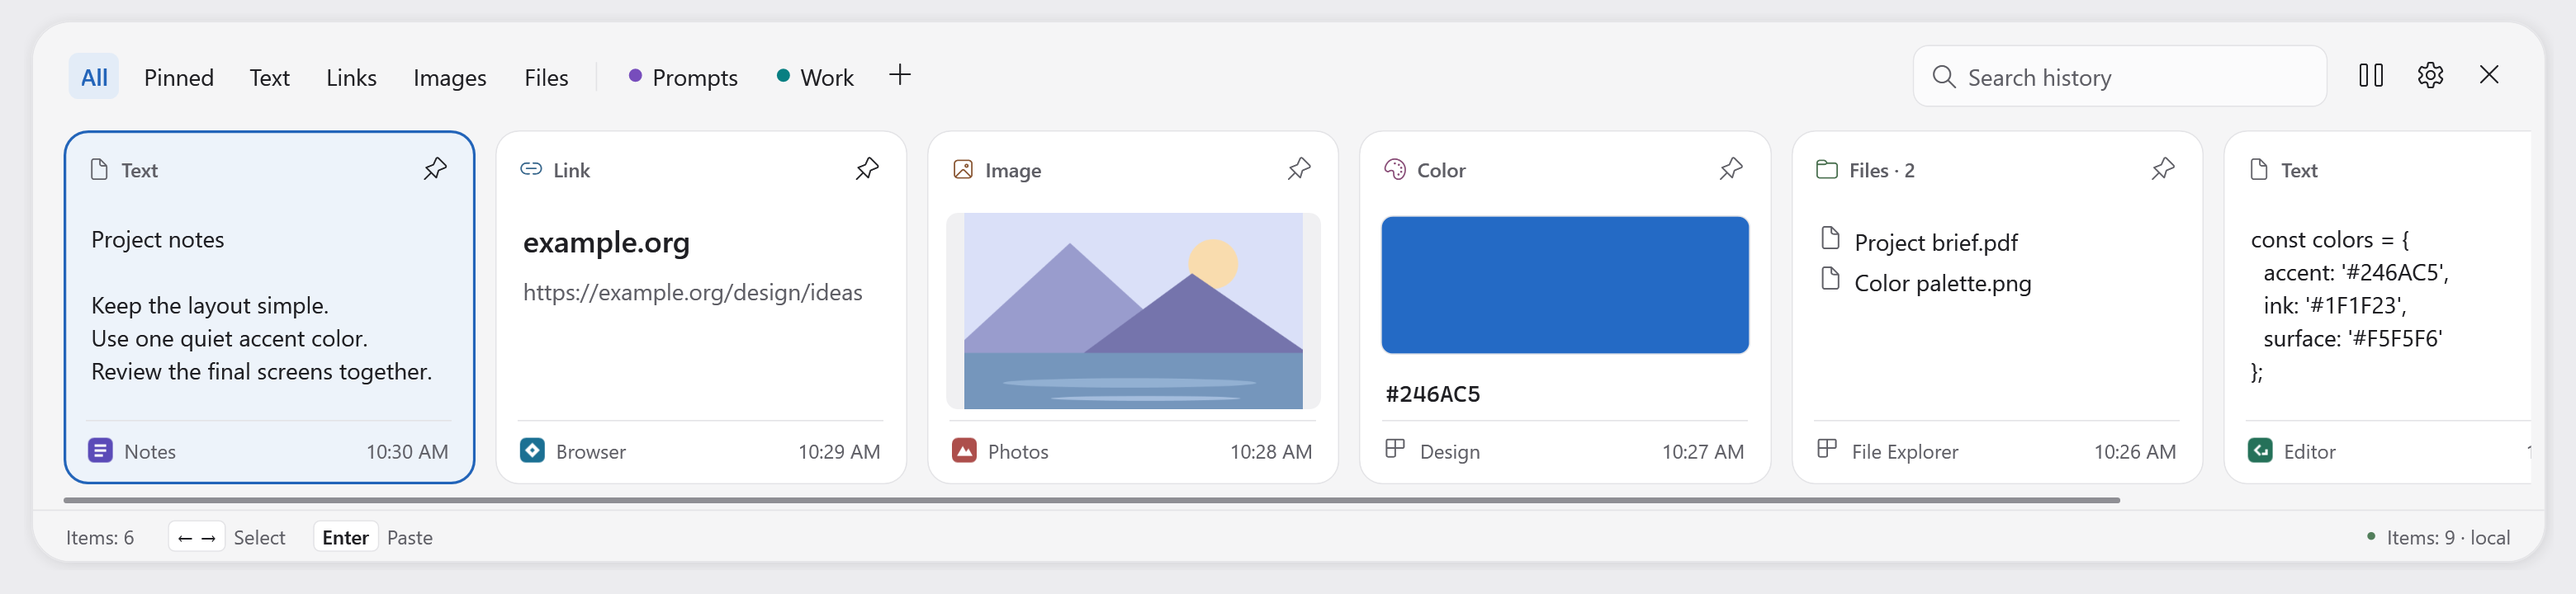
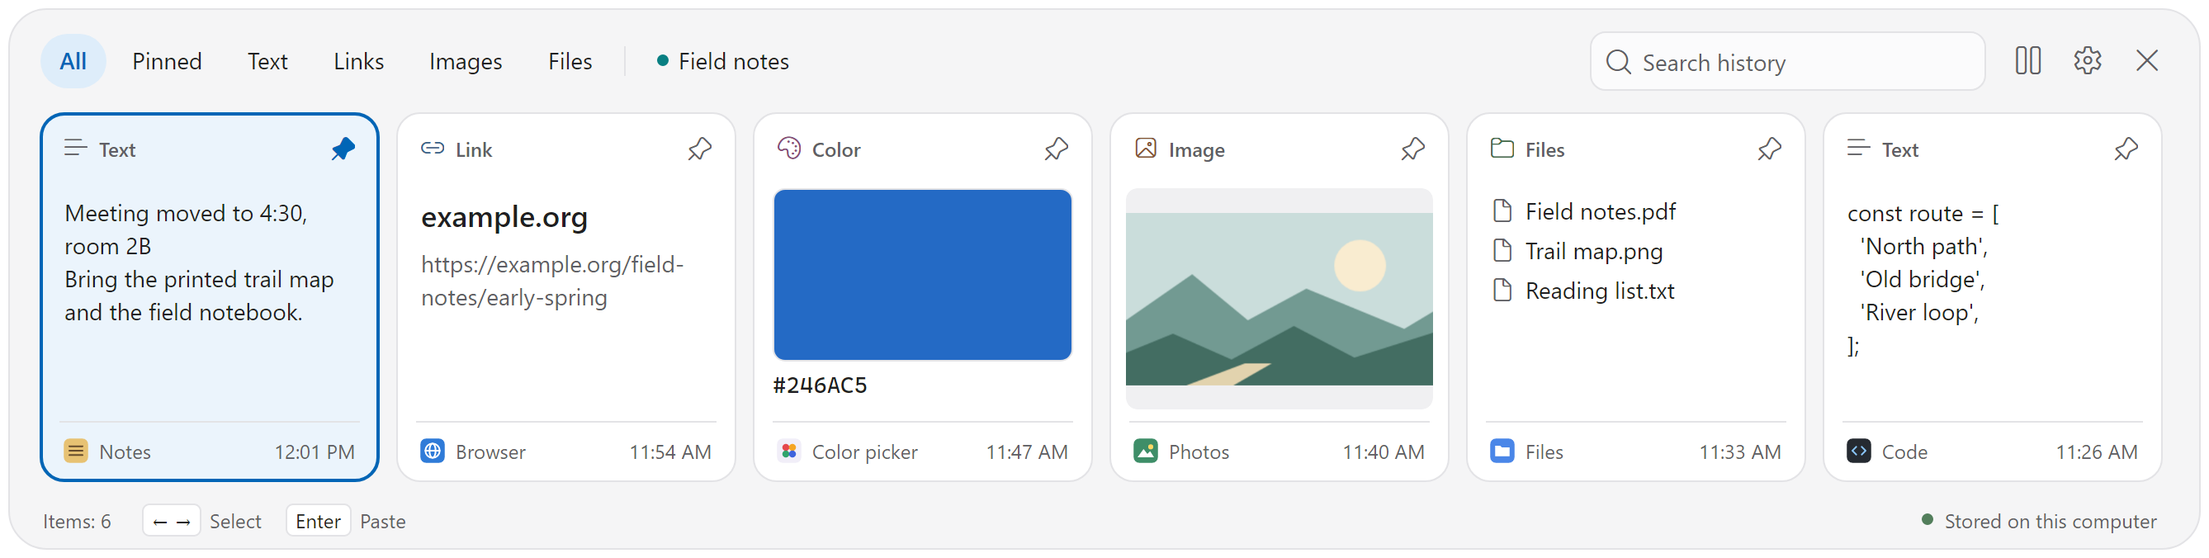
Render README images from the cross-platform app
The desktop tests get a --readme mode that renders the panel in light
and dark, the macOS permissions step and Settings at 2x, and records the
first-run guide as a GIF with ffmpeg. Demo sources get small app icons,
so every sample card shows where it came from.

diff --git a/tests/Vstavka.Desktop.Tests/Program.cs b/tests/Vstavka.Desktop.Tests/Program.cs
@@ -1,3 +1,5 @@
+using System.Diagnostics;
+using System.IO.Compression;
 using Avalonia;
 using Avalonia.Automation;
 using Avalonia.Controls;
@@ -18,9 +20,9 @@ using Vstavka.Core.Localization;
 using Vstavka.Desktop;
 using Vstavka.Platform;
 
-if (args.Length != 0 && (args.Length != 2 || args[0] != "--render"))
+if (args.Length != 0 && (args.Length != 2 || args[0] is not ("--render" or "--readme")))
 {
-    Console.Error.WriteLine("Usage: Vstavka.Desktop.Tests [--render <directory>]");
+    Console.Error.WriteLine("Usage: Vstavka.Desktop.Tests [--render <directory> | --readme <directory>]");
     return 2;
 }
 
@@ -30,6 +32,12 @@ AppBuilder.Configure<App>()
     .SetupWithoutStarting();
 
 var failures = 0;
+if (args.Length == 2 && args[0] == "--readme")
+{
+    Run("Render README images", () => RenderReadme(Path.GetFullPath(args[1])));
+    return failures == 0 ? 0 : 1;
+}
+
 Run("Category filters, search and empty results", () =>
 {
     using var demo = new DemoPlatformServices();
@@ -797,6 +805,169 @@ static void Check(bool condition, string message)
 {
     if (!condition)
         throw new InvalidOperationException(message);
+}
+
+static void RenderReadme(string directory)
+{
+    Directory.CreateDirectory(directory);
+    using var context = AvaloniaSynchronizationContext.Ensure(DispatcherPriority.Normal);
+    Strings.SetLanguage("en");
+    var scratch = Directory.CreateTempSubdirectory("vstavka-readme-");
+    using var demo = new SetupDemo("macOS")
+    {
+        DataDirectory = Path.Combine(scratch.FullName, "history"),
+        HistoryProtector = new AesGcmHistoryProtector(new TestKeyStore())
+    };
+    demo.DemoPermissions.AddRange(MacPermissions());
+    demo.Startup.TrySetEnabled(true);
+    var history = CreateHistory(demo, seed: true);
+    try
+    {
+        RenderStills();
+        history.Store.Settings.OnboardingStep = 0;
+        RenderReadmeAnimation(new OnboardingWindow(demo, history) { RequestedThemeVariant = ThemeVariant.Light }, directory,
+            scratch.CreateSubdirectory("frames").FullName);
+    }
+    finally
+    {
+        try { history.Stop(); }
+        finally { scratch.Delete(recursive: true); }
+    }
+
+    void RenderStills()
+    {
+        var samples = history.Store.Items;
+        var note = samples.Single(item => item.IsPinned);
+        note.Text = Strings.Get("WelcomeSampleText") + "\nBring the printed trail map and the field notebook.";
+        history.Store.Add(new ClipItem
+        {
+            Text = "const route = [\n  'North path',\n  'Old bridge',\n  'River loop',\n];",
+            SourceApp = "Code",
+            CapturedAt = samples.Min(item => item.CapturedAt).AddMinutes(-7)
+        });
+        history.Store.SetSourceIcon("Code", DemoSamples.SourceIcon("Code"));
+        Check(history.Store.Items.All(item => !history.Store.GetSourceIcon(item.SourceApp).IsEmpty),
+            "Every README card shows its source app icon.");
+
+        foreach (var (variant, name) in new[] { (ThemeVariant.Light, "light"), (ThemeVariant.Dark, "dark") })
+        {
+            var panel = OpenPanel(demo, history, variant);
+            try
+            {
+                var cards = Find<ListBox>(panel, "Cards");
+                Check(cards.Items.Count == 6 && ReferenceEquals(cards.SelectedItem, note), "The selected note and all six demo items are in the panel.");
+                var scroll = (ScrollViewer)cards.Scroll!;
+                var margin = cards.ContainerFromIndex(0)!.Margin;
+                var width = Math.Floor(scroll.Viewport.Width / cards.Items.Count - margin.Left - margin.Right);
+                cards.Styles.Add(new Style(selector => selector.OfType<ListBoxItem>()) { Setters = { new Setter(Layoutable.WidthProperty, width) } });
+                Flush(panel);
+                Check(scroll.Extent.Width <= scroll.Viewport.Width, "All six cards fit in the README panel.");
+                SaveStill(panel, "panel-" + name);
+            }
+            finally { panel.Close(); }
+        }
+
+        var guide = new OnboardingWindow(demo, history, animate: false) { RequestedThemeVariant = ThemeVariant.Light };
+        guide.Show();
+        try
+        {
+            Advance(guide, 2);
+            SaveStill(guide, "onboarding-permissions");
+        }
+        finally { guide.Close(); }
+
+        history.Store.Settings.Theme = "light";
+        var settings = new SettingsWindow(demo, history, animate: false) { RequestedThemeVariant = ThemeVariant.Light };
+        settings.Show();
+        try
+        {
+            Flush(settings);
+            var scroll = Find<ScrollViewer>(settings, "SettingsScroll");
+            settings.Height += Math.Max(0, Math.Ceiling(scroll.Extent.Height - scroll.Viewport.Height));
+            Flush(settings);
+            Check(scroll.Extent.Height <= scroll.Viewport.Height, "All settings fields fit in the README window.");
+            SaveStill(settings, "settings");
+        }
+        finally { settings.Close(); }
+    }
+
+    void SaveStill(Window window, string name)
+    {
+        window.MouseMove(new Point(0, 0));
+        window.FocusManager?.Focus(null);
+        Flush(window);
+        var pixels = PixelSize.FromSize(window.ClientSize, 2);
+        using var frame = new RenderTargetBitmap(pixels, new Vector(192, 192));
+        frame.Render(window);
+        frame.Save(Path.Combine(directory, name + ".png"), PngBitmapEncoderOptions.Default);
+    }
+}
+
+static void RenderReadmeAnimation(OnboardingWindow guide, string directory, string frames)
+{
+    const int framesPerSecond = 25;
+    const int shortcutFrame = 50;
+    const int frameCount = 195;
+    Check(DesktopMotion.Enabled, "Enable system animations before recording onboarding.");
+    guide.Show();
+    try
+    {
+        var clock = Stopwatch.StartNew();
+        Flush(guide);
+        var size = PixelSize.FromSize(guide.ClientSize, 1);
+        Check(size.Width == 640, "The animation uses the onboarding window's 640-pixel width.");
+        using var frame = new RenderTargetBitmap(size);
+        var png = new PngBitmapEncoderOptions { CompressionLevel = CompressionLevel.Fastest };
+        Border[] keycaps = [];
+        var keypresses = new List<Border>();
+        Border? previous = null;
+        for (var index = 0; index < frameCount; index++)
+        {
+            var remaining = TimeSpan.FromSeconds((double)index / framesPerSecond) - clock.Elapsed;
+            if (remaining > TimeSpan.Zero)
+            {
+                // Pump the UI dispatcher while the guide's real Task.Delay calls and animations advance.
+                var wait = new DispatcherFrame();
+                using var timer = DispatcherTimer.RunOnce(() => wait.Continue = false, remaining);
+                Dispatcher.UIThread.PushFrame(wait);
+            }
+
+            if (index == shortcutFrame)
+            {
+                Advance(guide, 1);
+                guide.MouseMove(new Point(0, 0));
+                guide.FocusManager?.Focus(null);
+                keycaps = Find<StackPanel>(guide, "ShortcutKeycaps").Children.OfType<Border>().ToArray();
+            }
+
+            Flush(guide);
+            AvaloniaHeadlessPlatform.ForceRenderTimerTick();
+            var pressed = keycaps.FirstOrDefault(cap => cap.RenderTransform?.Value.M32 > 0.05);
+            if (pressed is not null && pressed != previous)
+                keypresses.Add(pressed);
+            previous = pressed;
+            frame.Render(guide);
+            frame.Save(Path.Combine(frames, FormattableString.Invariant($"frame-{index:D3}.png")), png);
+        }
+        Check(keycaps.Length == 3 && keypresses.SequenceEqual(keycaps.Concat(keycaps)),
+            "The GIF captures two full runs of the shortcut animation.");
+    }
+    finally { guide.Close(); }
+
+    var gif = Path.Combine(directory, "onboarding.gif");
+    var ffmpeg = new ProcessStartInfo("ffmpeg") { UseShellExecute = false, CreateNoWindow = true };
+    foreach (var argument in new[]
+    {
+        "-hide_banner", "-loglevel", "error", "-nostdin", "-y", "-framerate", FormattableString.Invariant($"{framesPerSecond}"),
+        "-i", Path.Combine(frames, "frame-%03d.png"), "-filter_complex_threads", "1", "-filter_complex",
+        "split[frames][colors];[colors]palettegen=stats_mode=diff[palette];[frames][palette]paletteuse=dither=bayer:bayer_scale=3:diff_mode=rectangle",
+        "-loop", "0", gif
+    })
+        ffmpeg.ArgumentList.Add(argument);
+    using var process = Process.Start(ffmpeg) ?? throw new InvalidOperationException("Could not start ffmpeg.");
+    process.WaitForExit();
+    Check(process.ExitCode == 0, $"ffmpeg exited with code {process.ExitCode}.");
+    Check(new FileInfo(gif).Length <= 3_000_000, "The onboarding GIF must be under 3 MB.");
 }
 
 static DesktopHistory CreateHistory(IPlatformServices demo, bool seed)

diff --git a/src/Vstavka.Desktop/DemoSamples.cs b/src/Vstavka.Desktop/DemoSamples.cs
@@ -28,7 +28,8 @@ internal static class DemoSamples
         var saved = new ClipItem { Text = "Pack a field notebook and a spare pencil.", SourceApp = "Notes" };
         store.Add(saved);
         store.AssignCollection(saved.Id, collection.Id);
-        store.SetSourceIcon("Notes", SourceIcon());
+        foreach (var app in samples.Select(sample => sample.SourceApp).Distinct())
+            store.SetSourceIcon(app, SourceIcon(app));
     }
 
     internal static byte[] ExampleImage()
@@ -50,18 +51,63 @@ internal static class DemoSamples
         return stream.ToArray();
     }
 
-    private static byte[] SourceIcon()
+    /// <summary>
+    /// A small app icon for the sample sources, drawn on a 24-unit grid into 32 pixels, the largest icon the
+    /// history keeps, so the 16-pixel card icon stays sharp on high-DPI screens.
+    /// </summary>
+    internal static byte[] SourceIcon(string app)
     {
-        using var bitmap = new RenderTargetBitmap(new PixelSize(24, 24));
+        using var bitmap = new RenderTargetBitmap(new PixelSize(32, 32), new Vector(128, 128));
         using (var drawing = bitmap.CreateDrawingContext())
         {
-            drawing.DrawRectangle(new SolidColorBrush(Color.Parse("#E7C273")), null, new Rect(1, 1, 22, 22), 5, 5);
-            var ink = new Pen(new SolidColorBrush(Color.Parse("#654B2C")), 1.5);
-            for (var y = 8; y <= 16; y += 4)
-                drawing.DrawLine(ink, new Point(6, y), new Point(18, y));
+            var tile = app switch
+            {
+                "Browser" => "#2F7BD8",
+                "Color picker" => "#F1EEF8",
+                "Photos" => "#3E8E68",
+                "Files" => "#4A86E8",
+                "Code" => "#252A31",
+                _ => "#E7C273"
+            };
+            drawing.DrawRectangle(Fill(tile), null, new Rect(1, 1, 22, 22), 5, 5);
+            switch (app)
+            {
+                case "Browser":
+                    var globe = Stroke("#FFFFFF");
+                    drawing.DrawEllipse(null, globe, new Point(12, 12), 6.5, 6.5);
+                    drawing.DrawEllipse(null, globe, new Point(12, 12), 2.8, 6.5);
+                    drawing.DrawLine(globe, new Point(5.5, 12), new Point(18.5, 12));
+                    break;
+                case "Color picker":
+                    drawing.DrawEllipse(Fill("#E5484D"), null, new Point(9, 9), 3.2, 3.2);
+                    drawing.DrawEllipse(Fill("#F5A524"), null, new Point(15, 9), 3.2, 3.2);
+                    drawing.DrawEllipse(Fill("#30A46C"), null, new Point(9, 15), 3.2, 3.2);
+                    drawing.DrawEllipse(Fill("#3E63DD"), null, new Point(15, 15), 3.2, 3.2);
+                    break;
+                case "Photos":
+                    drawing.DrawEllipse(Fill("#FFD866"), null, new Point(16.5, 8.5), 2.3, 2.3);
+                    drawing.DrawGeometry(Fill("#FFFFFF"), null, Geometry.Parse("M4.5,18 L10,10.5 13.5,15 16,12.5 19.5,18 Z"));
+                    break;
+                case "Files":
+                    drawing.DrawGeometry(Fill("#FFFFFF"), null, Geometry.Parse("M5.5,7.5 H10 L11.5,9 H18.5 V17 H5.5 Z"));
+                    break;
+                case "Code":
+                    drawing.DrawGeometry(null, Stroke("#8CC8FF"), Geometry.Parse("M9.5,8.5 L6,12 9.5,15.5 M14.5,8.5 L18,12 14.5,15.5"));
+                    break;
+                default:
+                    var ink = Stroke("#654B2C");
+                    for (var y = 8; y <= 16; y += 4)
+                        drawing.DrawLine(ink, new Point(6, y), new Point(18, y));
+                    break;
+            }
         }
         using var stream = new MemoryStream();
         bitmap.Save(stream, PngBitmapEncoderOptions.Default);
         return stream.ToArray();
     }
+
+    private static SolidColorBrush Fill(string color) => new(Color.Parse(color));
+
+    private static Pen Stroke(string color) =>
+        new(Fill(color), 1.5, lineCap: PenLineCap.Round, lineJoin: PenLineJoin.Round);
 }
